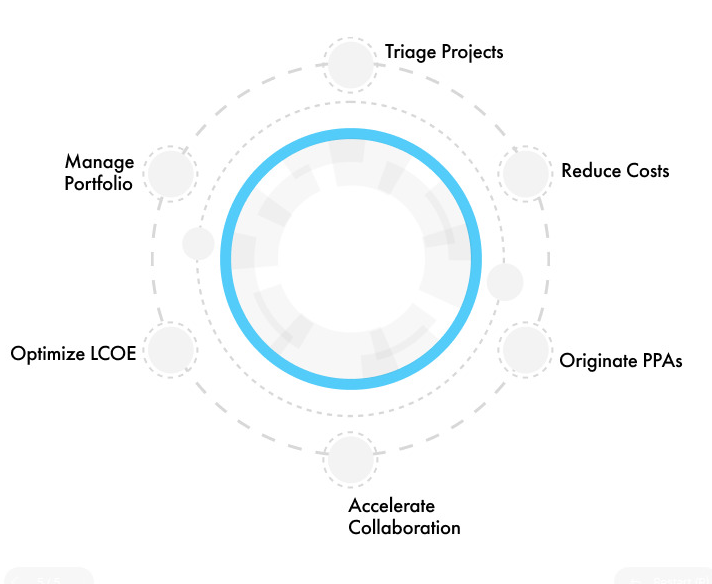
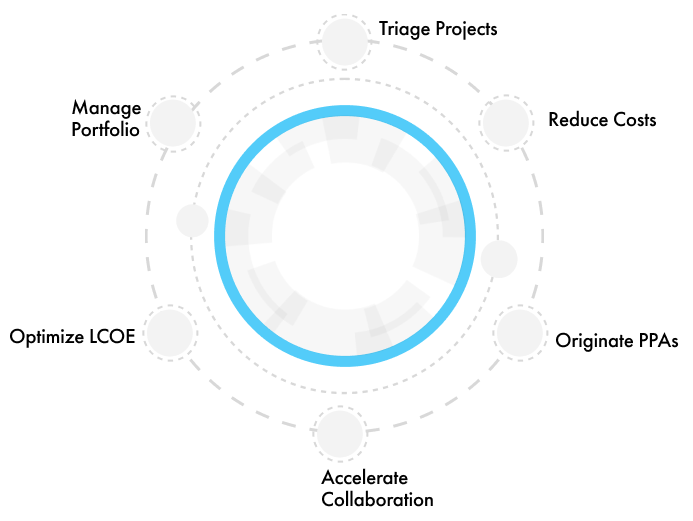
scale images

diff --git a/src/App.css b/src/App.css
@@ -928,11 +928,23 @@ CSS Header
     background-repeat: no-repeat, no-repeat;
     background-size: 300px, 178px;
   }
+  .bgCircle4View {
+    background-image: url("images/circle.png"), url("images/circle.png"), url("images/circle.png");
+    background-position: -200px 0px, 1265px 50px, 20% 125%;
+    background-repeat: no-repeat, no-repeat;
+    background-size: 300px, 178px, 250px;
+  }
   .bgCircle3Contact {
     background-image: url("images/circle.png"), url("images/circle.png");
-    background-position: -200px 0px, 1230px 50px;
+    background-position: -200px 0px, 1240px 50px;
     background-repeat: no-repeat, no-repeat;
     background-size: 300px, 178px;
+  }
+  .bgCircle3ViewMake {
+    background-image: url("images/circle.png"), url("images/circle.png"), url("images/circle.png");
+    background-position: -200px 0px, 1240px 50px, 30% 100%;
+    background-repeat: no-repeat, no-repeat;
+    background-size: 300px, 178px, 200px;
   }
   .bgCircle3Clear {
     background-image: url("images/circle.png");
@@ -942,7 +954,7 @@ CSS Header
   }
   .bgHeadingCircle {
     background-image: url("images/circle.png");
-    background-position: 61%  15px;
+    background-position: 73%  15px;
     background-repeat: no-repeat;
     background-size: 25%;
   }
@@ -1040,6 +1052,7 @@ Contact Page
 
 .workerTP{
   padding-top: 135px;
+  padding-bottom: 95px;
 }
 
 
@@ -1494,5 +1507,11 @@ Contact Page
   }
   .textNoWrap{
     white-space: nowrap;
+  }
+  .imgScale3{
+    transform: scale(1.3);
+  }
+  .imgScale2{
+    transform: scale(1.2);
   }
 }

diff --git a/src/components/contactpage/section2/index.js b/src/components/contactpage/section2/index.js
@@ -10,16 +10,16 @@ export default  class Section2Contact extends React.Component {
 	}
 	render() {
     return (
-      <section className="sectionAccess white bgCircle4Contact">
+      <section className="sectionAccess white bgCircle4View">
         <Grid>
           <Row className="destopVersion">
-            <Col lg={6} md={6} sm={6} xs={12} className="bgHeadingCircle">
+            <Col lg={6} md={6} sm={6} xs={12} >
               <h1>Higher Returns with <span>Less Risk</span></h1>
               <p>Developers on our network are bringing the grid enough clean energy for 1 Billion people over the next decade.</p>
               <Button className="headerButton textBlack inline-block">Develop Projects</Button>
             </Col>
             <Col lg={6} md={6} sm={6} xs={12} lgOffset={0}>
-              <Image src={pic} responsive />
+              <Image src={pic} responsive className="imgScale3" />
             </Col>
           </Row>
 

diff --git a/src/components/contactpage/section10/index.js b/src/components/contactpage/section10/index.js
@@ -10,7 +10,7 @@ export default  class Section3Contact extends React.Component {
   }
   render() {
     return (
-      <section className="sectionAccess sectionAlign gray bgCircle3Contact viewSection">
+      <section className="sectionAccess sectionAlign gray bgCircle3ViewMake viewSection">
         <Grid>
           <Row>
             <Col lg={4} md={4} sm={4} xs={12} className="bgHeadingCircle MTNone">

diff --git a/src/components/contactpage/section3/index.js b/src/components/contactpage/section3/index.js
@@ -19,7 +19,7 @@ export default  class Section3Contact extends React.Component {
               <Button className="headerButton textBlack inline-block">Get Started</Button>
             </Col>
             <Col lg={6} md={6} sm={6} xs={12} lgOffset={0}>
-              <Image src={pic} responsive />
+              <Image src={pic} responsive className="imgScale2"/>
             </Col>
           </Row>
 
